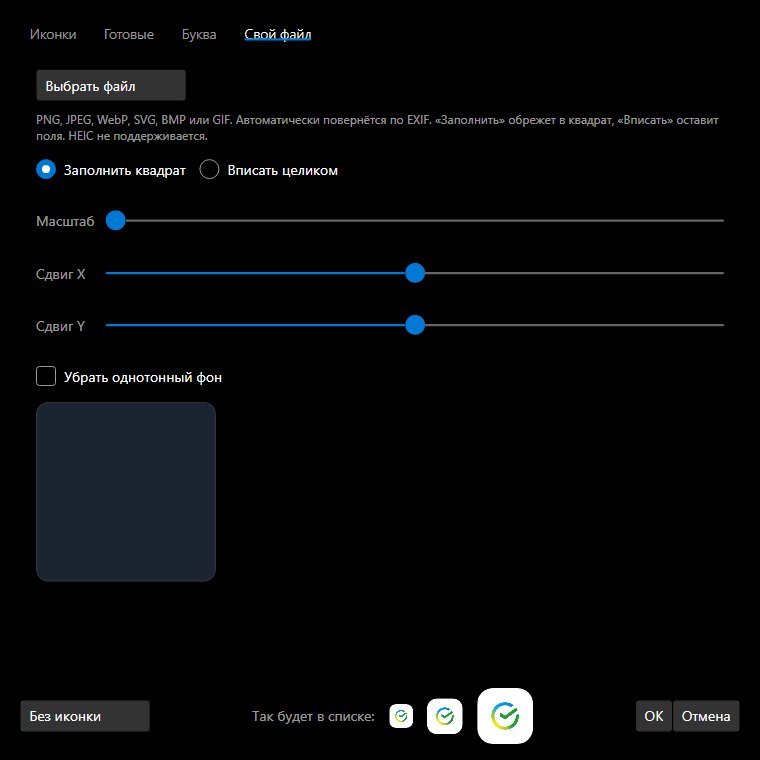
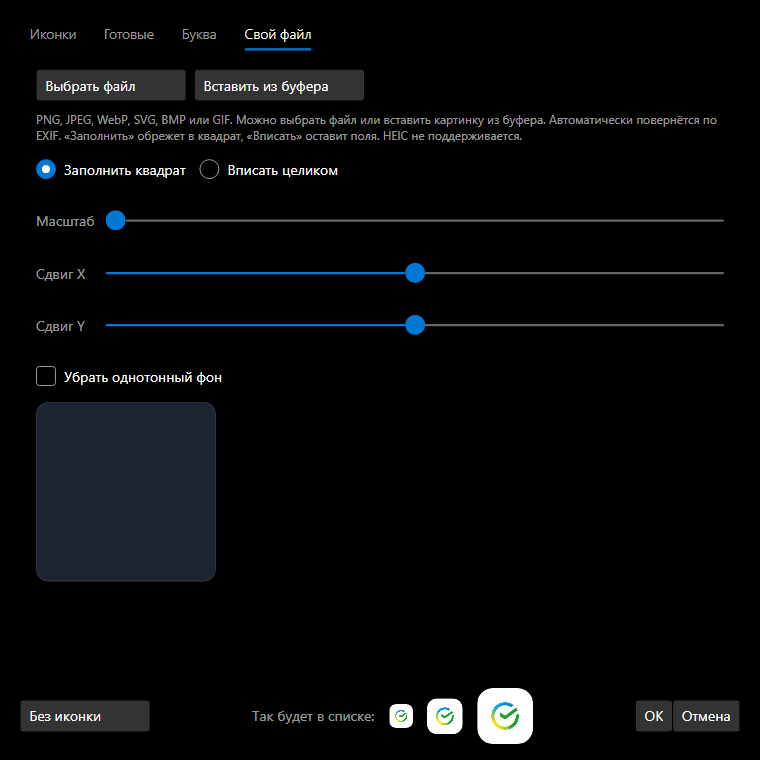
image from clipboard

Changed region(s): [[0.0605, 0.0303, 0.9382, 0.2118]]

diff --git a/src/FamilyMoney.Desktop/Views/IconPickerWindow.axaml.cs b/src/FamilyMoney.Desktop/Views/IconPickerWindow.axaml.cs
@@ -7,9 +7,11 @@ using Avalonia;
 using Avalonia.Controls;
 using Avalonia.Controls.Primitives;
 using Avalonia.Input;
+using Avalonia.Input.Platform;
 using Avalonia.Interactivity;
 using Avalonia.Platform.Storage;
 using Avalonia.Threading;
+using Avalonia.VisualTree;
 using FamilyMoney.Navigation.Services;
 using FamilyMoney.Navigation.ViewModels;
 using FamilyMoney.Utils;
@@ -44,6 +46,7 @@ public partial class IconPickerWindow : Window
             Interval = TimeSpan.FromMilliseconds(180),
         };
         _normalizeTimer.Tick += OnNormalizeTimerTick;
+        AddHandler(KeyDownEvent, OnWindowKeyDown, Avalonia.Interactivity.RoutingStrategies.Tunnel);
     }
 
     protected override void OnClosed(EventArgs e)
@@ -220,8 +223,89 @@ public partial class IconPickerWindow : Window
         }
     }
 
-    private void OnFileFitChanged(object? sender, RoutedEventArgs e)
+    private void OnWindowKeyDown(object? sender, KeyEventArgs e)
     {
+        if (Tabs?.SelectedIndex != 3
+            || e.Key != Key.V
+            || (e.KeyModifiers & (KeyModifiers.Control | KeyModifiers.Meta)) == 0)
+        {
+            return;
+        }
+
+        if (e.Source is Visual visual
+            && (visual is TextBox || visual.FindAncestorOfType<TextBox>() is not null))
+        {
+            return;
+        }
+
+        e.Handled = true;
+        OnPasteImage(this, new RoutedEventArgs());
+    }
+
+    private async void OnPasteImage(object? sender, RoutedEventArgs e)
+    {
+        var clipboard = GetTopLevel(this)?.Clipboard;
+        if (clipboard is null)
+        {
+            ShowFileError("Буфер обмена недоступен.");
+            return;
+        }
+
+        try
+        {
+            byte[]? data = null;
+            var fileName = "clipboard.png";
+
+            using (var bitmap = await clipboard.TryGetBitmapAsync())
+            {
+                if (bitmap is not null)
+                {
+                    using var memory = new MemoryStream();
+                    bitmap.Save(memory);
+                    data = memory.ToArray();
+                }
+            }
+
+            if (data is null)
+            {
+                var files = await clipboard.TryGetFilesAsync();
+                var file = files?.FirstOrDefault();
+                var path = file?.TryGetLocalPath();
+                if (!string.IsNullOrEmpty(path))
+                {
+                    data = await File.ReadAllBytesAsync(path);
+                    fileName = Path.GetFileName(path);
+                }
+            }
+
+            if (data is not { Length: > 0 })
+            {
+                ShowFileError("В буфере нет картинки. Скопируйте изображение или файл картинки.");
+                return;
+            }
+
+            if (data.Length > 20 * 1024 * 1024)
+            {
+                ShowFileError("Картинка больше 20 МБ. Скопируйте изображение поменьше.");
+                return;
+            }
+
+            Log.Info("IconPicker clipboard image selected ({Bytes} bytes, {File})", data.Length, fileName);
+            _normalizeTimer.Stop();
+            _normalizeCts?.Cancel();
+            _sourceImageData = data;
+            _sourceFileName = fileName;
+            ShowFileInfo($"Вставлено из буфера · {FormatBytes(data.Length)}. Обрабатываю…");
+            await NormalizeSelectedFileAsync();
+        }
+        catch (Exception ex)
+        {
+            Log.Warn(ex, "IconPicker clipboard read failed");
+            ShowFileError("Не удалось прочитать картинку из буфера.");
+        }
+    }
+
+    private void OnFileFitChanged(object? sender, RoutedEventArgs e)    {
         if (FitMode is null)
         {
             return;
